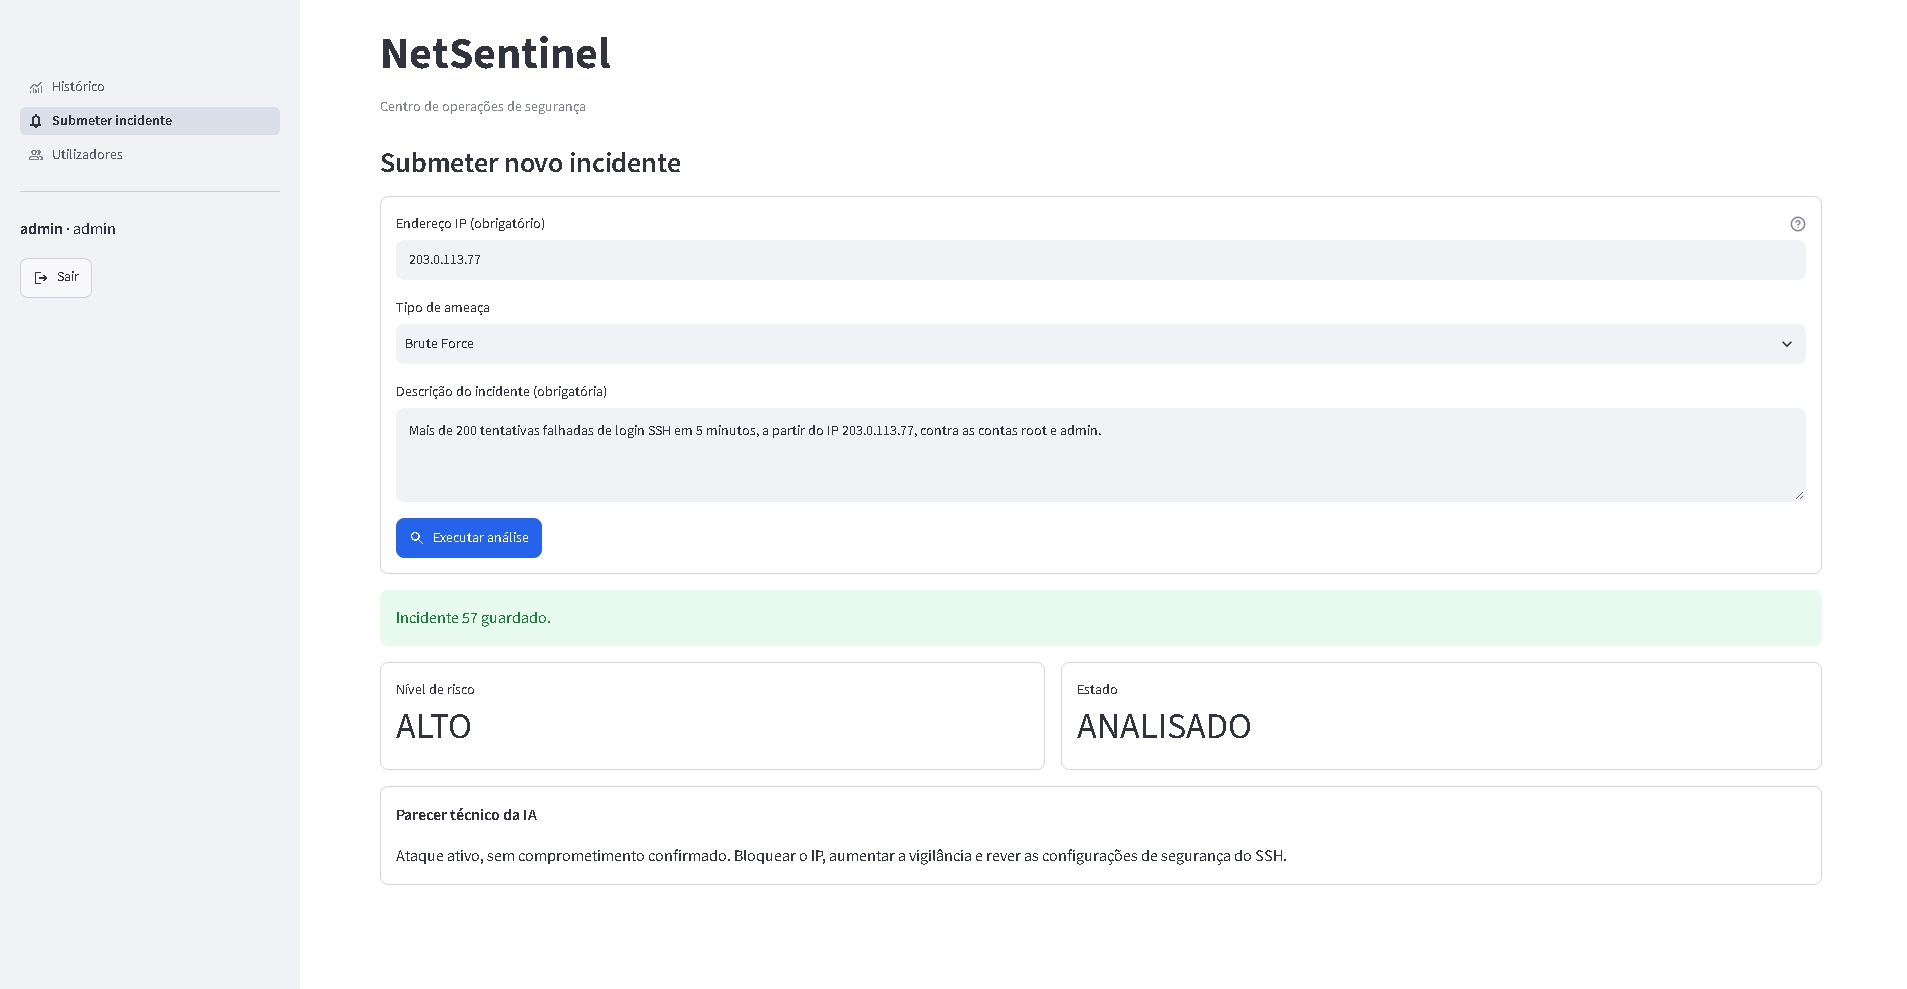
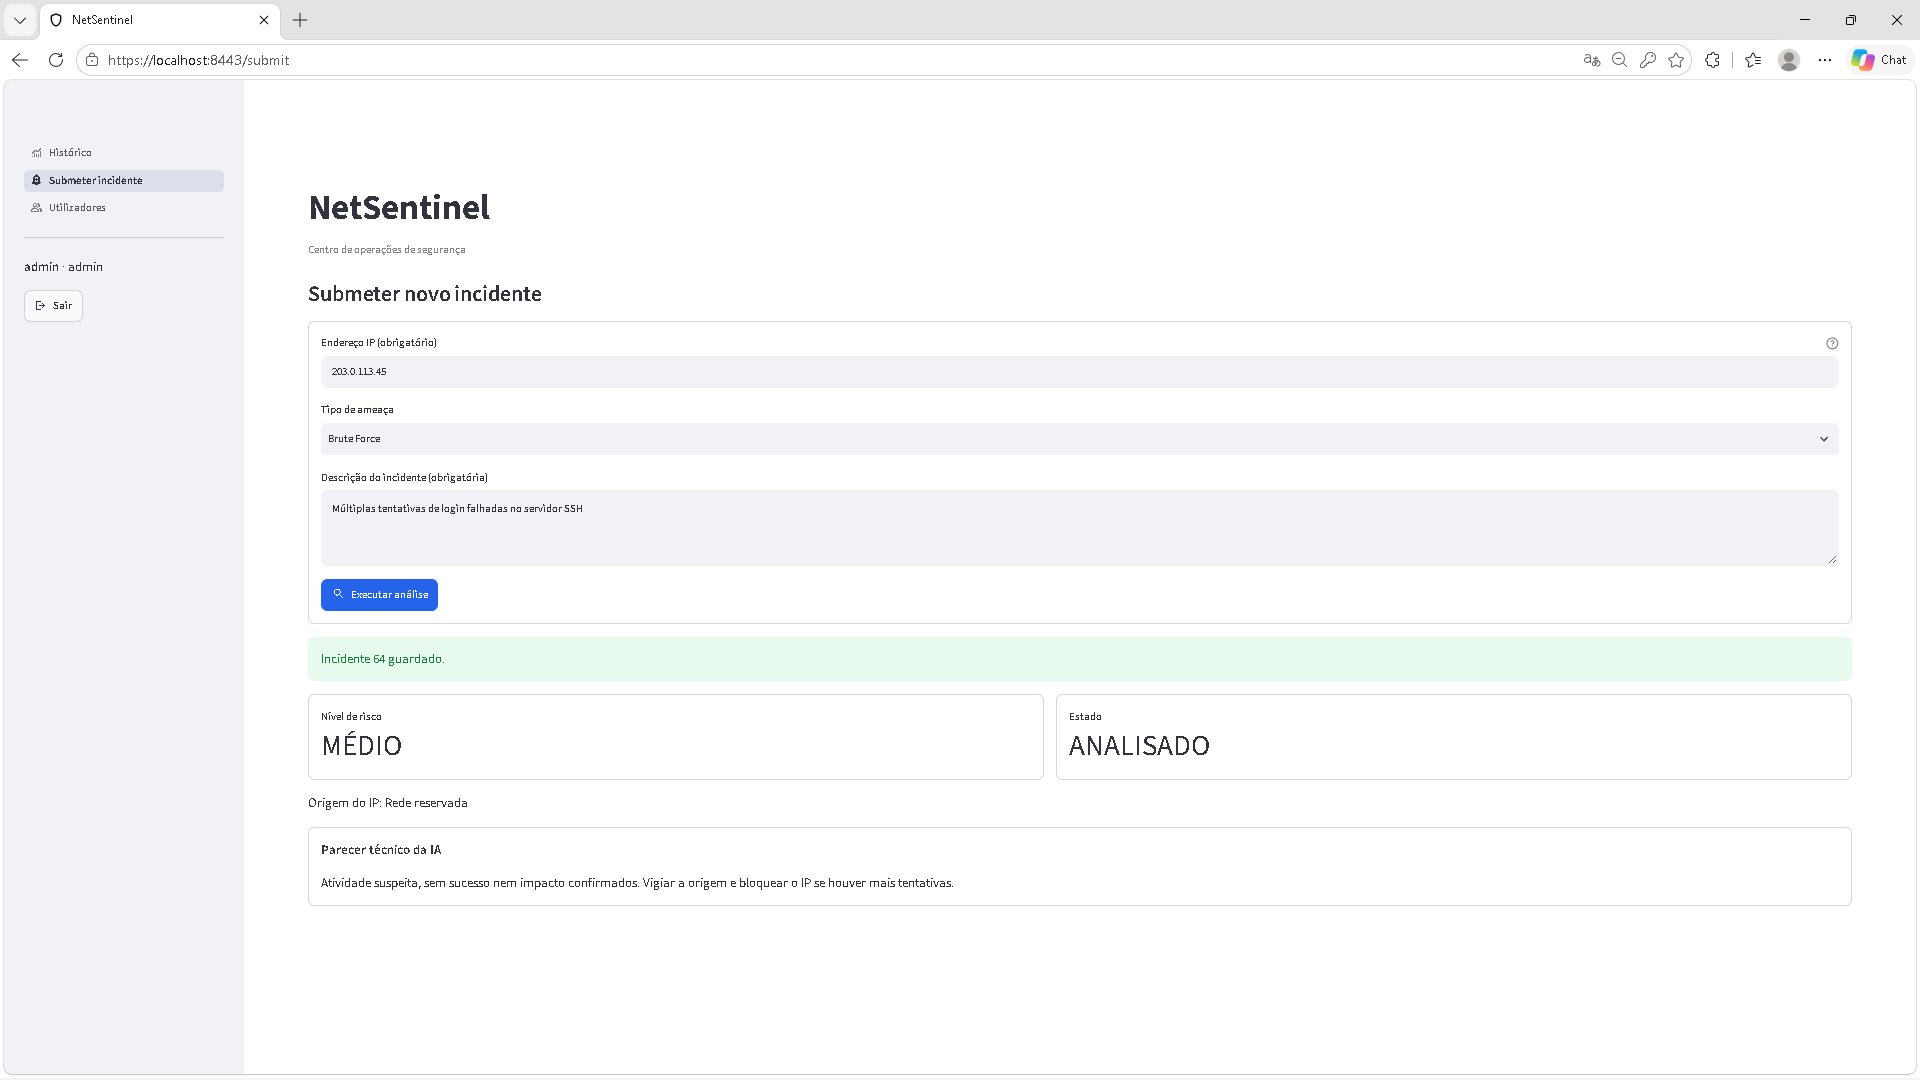
docs: atualiza capturas da submissão e dos bloqueios

diff --git a/README.md b/README.md
@@ -108,7 +108,7 @@ tests/               Testes automáticos
 
 ## Capturas de ecrã
 
-Os dados nas capturas são fictícios e usam IPs de documentação, como `203.0.113.x`, exceto o `8.8.8.8` (DNS público da Google), usado no histórico para mostrar o país e a organização do IP. As capturas de submissão, de resposta a incidentes e do perfil leitor são anteriores à origem dos IPs e aos cabeçalhos da tabela em português.
+Os dados nas capturas são fictícios e usam IPs de documentação, como `203.0.113.x`, exceto o `8.8.8.8` (DNS público da Google), usado para mostrar o país e a organização do IP. A captura do perfil leitor é anterior à origem dos IPs, aos cabeçalhos das tabelas em português e às datas formatadas.
 
 ![Início de sessão](docs/img/01-login.jpg)
 *Início de sessão*
@@ -116,11 +116,11 @@ Os dados nas capturas são fictícios e usam IPs de documentação, como `203.0.
 ![Histórico com perfil admin](docs/img/02-historico.jpg)
 *Histórico com perfil admin*
 
-![Submeter incidente e resultado da análise](docs/img/03-submeter.jpg)
-*Submeter incidente e resultado da análise*
+![Submeter incidente, com o resultado da análise e a origem do IP](docs/img/03-submeter.jpg)
+*Submeter incidente, com o resultado da análise e a origem do IP*
 
-![Resposta a incidentes e bloqueios ativos](docs/img/04-bloqueios.jpg)
-*Resposta a incidentes e bloqueios ativos*
+![Resposta a incidentes e bloqueios ativos, com datas em UTC](docs/img/04-bloqueios.jpg)
+*Resposta a incidentes e bloqueios ativos, com datas em UTC*
 
 ![Histórico com perfil leitor, sem menu de navegação](docs/img/05-leitor.jpg)
 *Histórico com perfil leitor, sem menu de navegação*
